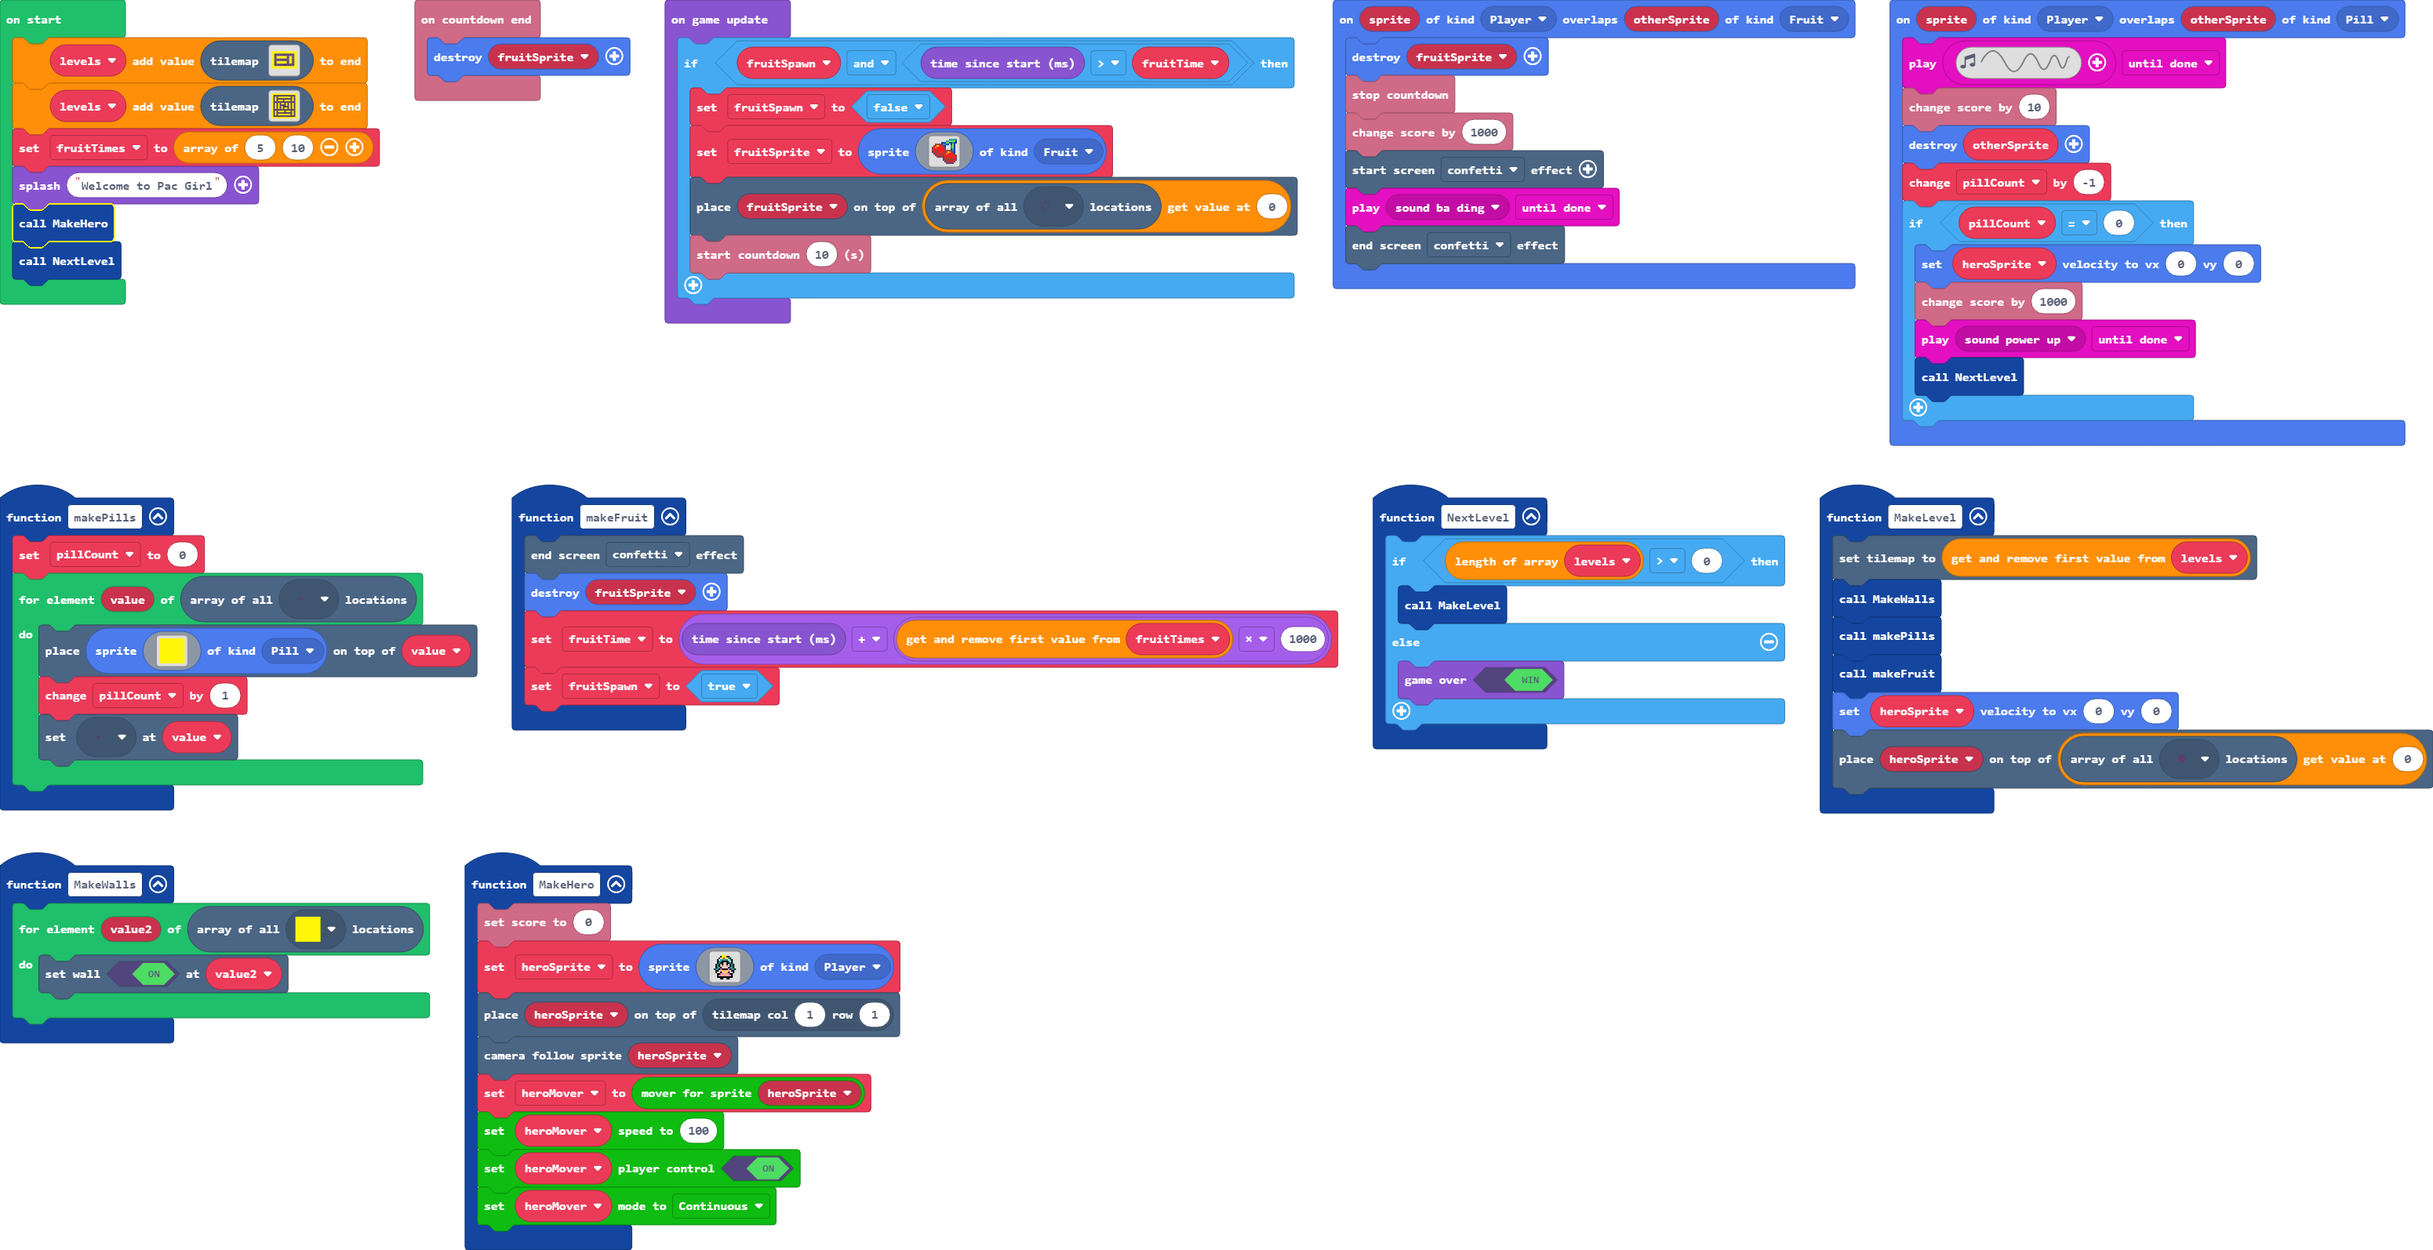
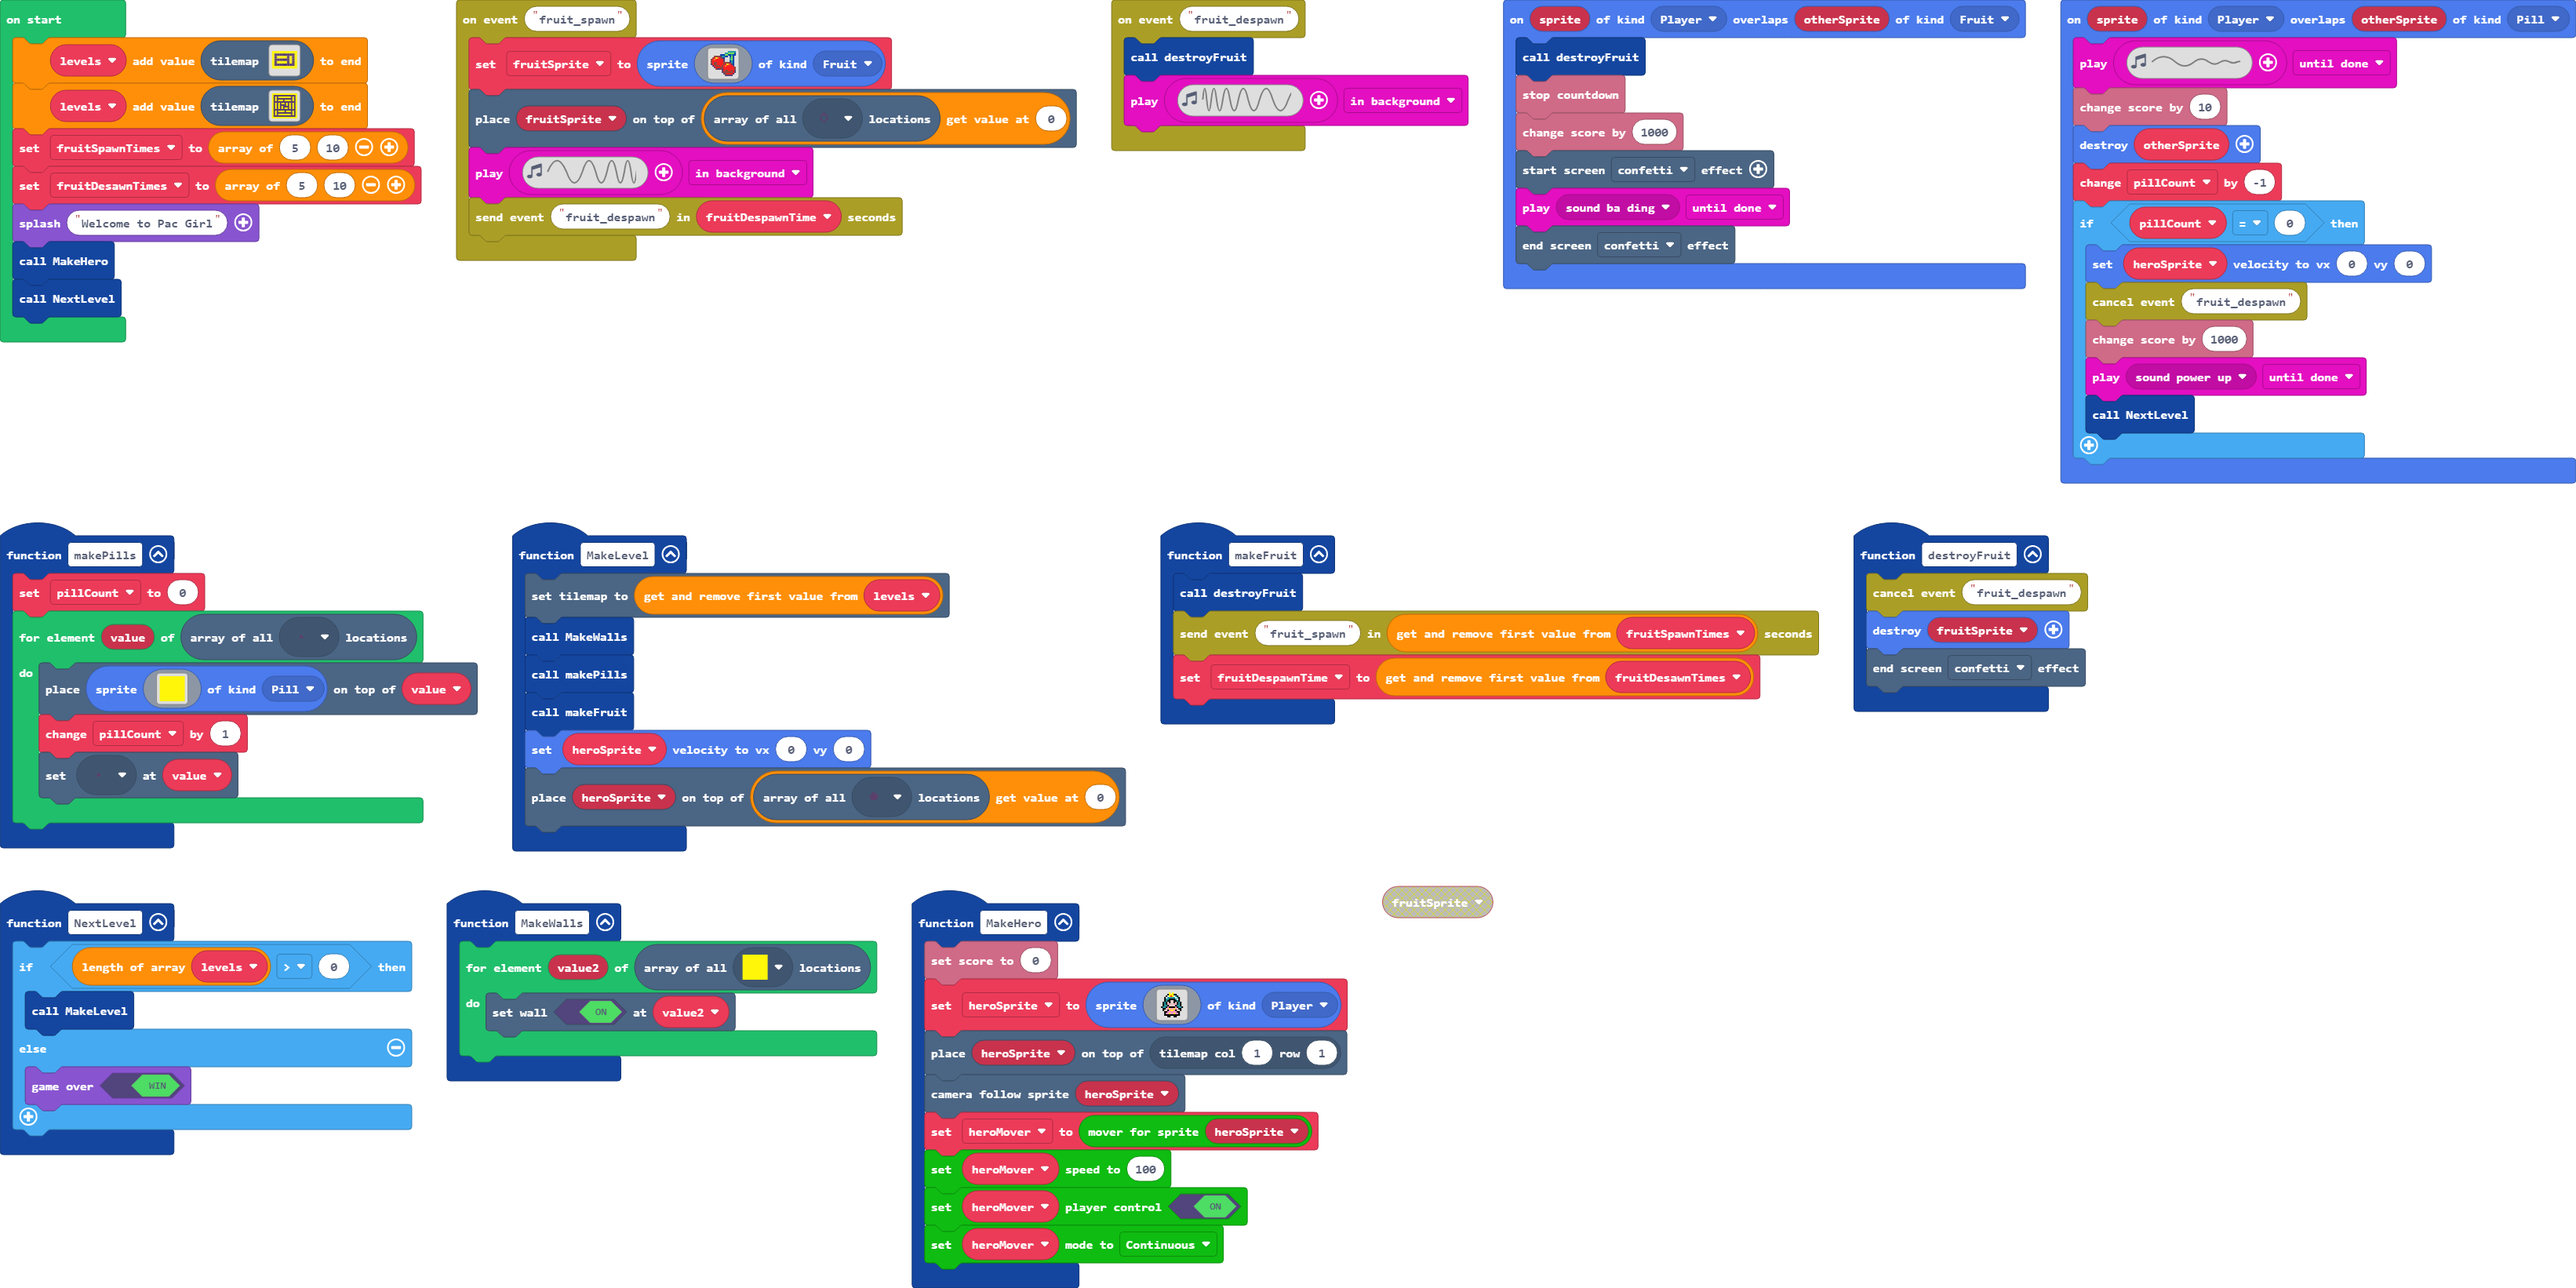
New event system for fruit spawning

diff --git a/main.ts b/main.ts
@@ -11,22 +11,27 @@ function makePills () {
     }
 }
 sprites.onOverlap(SpriteKind.Player, SpriteKind.Fruit, function (sprite, otherSprite) {
-    sprites.destroy(fruitSprite)
+    destroyFruit()
     info.stopCountdown()
     info.changeScoreBy(1000)
     effects.confetti.startScreenEffect()
     music.play(music.melodyPlayable(music.baDing), music.PlaybackMode.UntilDone)
     effects.confetti.endScreenEffect()
 })
-info.onCountdownEnd(function () {
+function destroyFruit () {
+    events.cancelEvent("fruit_despawn")
     sprites.destroy(fruitSprite)
-})
-function makeFruit () {
     effects.confetti.endScreenEffect()
-    sprites.destroy(fruitSprite)
-    fruitTime = game.runtime() + fruitTimes.shift() * 1000
-    fruitSpawn = true
 }
+function makeFruit () {
+    destroyFruit()
+    events.sendEvent("fruit_spawn", fruitSpawnTimes.shift())
+    fruitDespawnTime = fruitDesawnTimes.shift()
+}
+events.onEvent("fruit_despawn", function () {
+    destroyFruit()
+    music.play(music.createSoundEffect(WaveShape.Sine, 5000, 1052, 255, 255, 250, SoundExpressionEffect.None, InterpolationCurve.Linear), music.PlaybackMode.InBackground)
+})
 function NextLevel () {
     if (levels.length > 0) {
         MakeLevel()
@@ -48,12 +53,13 @@ function MakeWalls () {
     }
 }
 sprites.onOverlap(SpriteKind.Player, SpriteKind.Pill, function (sprite, otherSprite) {
-    music.play(music.createSoundEffect(WaveShape.Sine, 1, 5000, 255, 110, 50, SoundExpressionEffect.None, InterpolationCurve.Linear), music.PlaybackMode.UntilDone)
+    music.play(music.createSoundEffect(WaveShape.Sine, 1, 5000, 120, 0, 50, SoundExpressionEffect.None, InterpolationCurve.Linear), music.PlaybackMode.UntilDone)
     info.changeScoreBy(10)
     sprites.destroy(otherSprite)
     pillCount += -1
     if (pillCount == 0) {
         heroSprite.setVelocity(0, 0)
+        events.cancelEvent("fruit_despawn")
         info.changeScoreBy(1000)
         music.play(music.melodyPlayable(music.powerUp), music.PlaybackMode.UntilDone)
         NextLevel()
@@ -86,42 +92,41 @@ function MakeHero () {
     heroMover.setPlayerControl(true)
     heroMover.setMode(gridmove.Mode.Continuous)
 }
+events.onEvent("fruit_spawn", function () {
+    fruitSprite = sprites.create(img`
+        . . . . . . . . . . . 6 6 6 6 6 
+        . . . . . . . . . 6 6 7 7 7 7 8 
+        . . . . . . 8 8 8 7 7 8 8 6 8 8 
+        . . e e e e c 6 6 8 8 . 8 7 8 . 
+        . e 2 5 4 2 e c 8 . . . 6 7 8 . 
+        e 2 4 2 2 2 2 2 c . . . 6 7 8 . 
+        e 2 2 2 2 2 2 2 c . . . 8 6 8 . 
+        e 2 e e 2 2 2 2 e e e e c 6 8 . 
+        c 2 e e 2 2 2 2 e 2 5 4 2 c 8 . 
+        . c 2 e e e 2 e 2 4 2 2 2 2 c . 
+        . . c 2 2 2 e e 2 2 2 2 2 2 2 e 
+        . . . e c c e c 2 2 2 2 2 2 2 e 
+        . . . . . . . c 2 e e 2 2 e 2 c 
+        . . . . . . . c e e e e e e 2 c 
+        . . . . . . . . c e 2 2 2 2 c . 
+        . . . . . . . . . c c c c c . . 
+        `, SpriteKind.Fruit)
+    tiles.placeOnTile(fruitSprite, tiles.getTilesByType(assets.tile`floorFruit`)[0])
+    music.play(music.createSoundEffect(WaveShape.Sine, 1188, 5000, 255, 255, 250, SoundExpressionEffect.None, InterpolationCurve.Linear), music.PlaybackMode.InBackground)
+    events.sendEvent("fruit_despawn", fruitDespawnTime)
+})
 let heroMover: gridmove.Mover = null
 let heroSprite: Sprite = null
-let fruitSpawn = false
-let fruitTime = 0
+let fruitDespawnTime = 0
 let fruitSprite: Sprite = null
 let pillCount = 0
-let fruitTimes: number[] = []
+let fruitDesawnTimes: number[] = []
+let fruitSpawnTimes: number[] = []
 let levels: tiles.TileMapData[] = []
 levels.push(tilemap`level0`)
 levels.push(tilemap`level6`)
-fruitTimes = [5, 10]
+fruitSpawnTimes = [5, 10]
+fruitDesawnTimes = [5, 10]
 game.splash("Welcome to Pac Girl")
 MakeHero()
 NextLevel()
-game.onUpdate(function () {
-    if (fruitSpawn && game.runtime() > fruitTime) {
-        fruitSpawn = false
-        fruitSprite = sprites.create(img`
-            . . . . . . . . . . . 6 6 6 6 6 
-            . . . . . . . . . 6 6 7 7 7 7 8 
-            . . . . . . 8 8 8 7 7 8 8 6 8 8 
-            . . e e e e c 6 6 8 8 . 8 7 8 . 
-            . e 2 5 4 2 e c 8 . . . 6 7 8 . 
-            e 2 4 2 2 2 2 2 c . . . 6 7 8 . 
-            e 2 2 2 2 2 2 2 c . . . 8 6 8 . 
-            e 2 e e 2 2 2 2 e e e e c 6 8 . 
-            c 2 e e 2 2 2 2 e 2 5 4 2 c 8 . 
-            . c 2 e e e 2 e 2 4 2 2 2 2 c . 
-            . . c 2 2 2 e e 2 2 2 2 2 2 2 e 
-            . . . e c c e c 2 2 2 2 2 2 2 e 
-            . . . . . . . c 2 e e 2 2 e 2 c 
-            . . . . . . . c e e e e e e 2 c 
-            . . . . . . . . c e 2 2 2 2 c . 
-            . . . . . . . . . c c c c c . . 
-            `, SpriteKind.Fruit)
-        tiles.placeOnTile(fruitSprite, tiles.getTilesByType(assets.tile`floorFruit`)[0])
-        info.startCountdown(10)
-    }
-})

diff --git a/events.ts b/events.ts
@@ -1,0 +1,143 @@
+//% weight=100 color=#ab9e26 icon="\uf0a1" block="Events"
+//% groups='["Senders", "Handlers"]'
+namespace events {
+    class Event {
+        _name: string
+        _time: number
+        _fired: boolean
+
+        constructor(name: string) {
+            this._name = name
+            this._time = 0
+            this._fired = false
+        }
+
+        public update(time: number): boolean {
+            if (!this._fired)
+            {
+                if (time >= this._time) {
+                    this._fired = true
+                    return true
+                }
+            }
+            return false
+        }
+
+        public getName(): string { return this._name }
+
+        public setTime(time: number) {
+            this._time = time
+            this._fired = false
+        }
+
+        public cancel() {
+            this._fired = true
+        }
+    }
+
+    class Handler {
+        _name: string
+        _callback: () => void
+
+        constructor(name: string, callback: () => void) {
+            this._name = name
+            this._callback = callback
+        }
+
+        public call() {
+            if (this._callback) {
+                this._callback()
+            }
+        }
+
+        public getName(): string { return this._name }
+    }
+
+    class EventManager {
+        _events: Event[]
+        _handlers: Handler[]
+        _time: number
+
+        constructor() {
+            this._events = []
+            this._handlers = []
+            this._time = game.runtime()
+        }
+
+        public init() {
+            game.onUpdate(function () {
+                getEventManager().update()
+            })
+        }
+
+        private update() {
+            this._time = game.runtime()
+
+            // Update all events
+            this._events.forEach(e => {
+                if (e.update(this._time)) {
+                    // Event fired, call all handlers
+                    this._handlers.forEach(h => {
+                        if (e.getName() == h.getName()) {
+                            h.call()
+                        }
+                    })
+                }
+            })
+        }
+
+        public createHandler(name: string, callback: () => void) {
+            const h = new Handler(name, callback)
+            this._handlers.push(h)
+        }
+
+        public createEvent(name: string): Event {
+            // Check for existing event with this name
+            const found = this._events.find(e => e._name == name)
+            if (found) {
+                return found
+            }
+
+            // Create new event
+            const e = new Event(name)
+            this._events.push(e)
+            return e
+        }
+    }
+
+    function getEventManager(): EventManager {
+        let em = game.currentScene().data.eventManager
+        if (!em) {
+            em = new EventManager()
+            em.init()
+            game.currentScene().data.eventManager = em
+        }
+        return em
+    }
+
+    //% blockId=events_on_event
+    //% group="Handlers"
+    //% block="on event $name"
+    export function onEvent(name: string, callback: () => void) {
+        const em = getEventManager()
+        em.createHandler(name, callback)
+    }
+
+    //% blockId=events_send_event
+    //% group="Senders"
+    //% block="send event $name in $delay seconds"
+    export function sendEvent(name: string, delay: number = 0) {
+        const em = getEventManager()
+        const e = em.createEvent(name)
+        e.setTime(em._time + 1000 * delay)
+    }
+
+    //% blockId=events_cancel_event
+    //% group="Senders"
+    //% block="cancel event $name"
+    export function cancelEvent(name: string) {
+        const em = getEventManager()
+        const e = em.createEvent(name)
+        e.cancel()
+    }
+}

diff --git a/tilemap.g.ts b/tilemap.g.ts
@@ -42,6 +42,44 @@ namespace myTiles {
 . . . . . . . . . . . . . . . . 
 . . . . . . . . . . . . . . . . 
 `, [myTiles.transparency16,myTiles.tile1,myTiles.tile2,myTiles.tile3,myTiles.tile4], TileScale.Sixteen);
+            case "level2":
+            case "level2":return tiles.createTilemap(hex`1000100000000000000000000000000000000000000000000000000000000000000000000000000000000000000000000000000000000000000000000000000000000000000000000000000000000000000000000000000000000000000000000000000000000000000000000000000000000000000000000000000000000000000000000000000000000000000000000000000000000000000000000000000000000000000000000000000000000000000000000000000000000000000000000000000000000000000000000000000000000000000000000000000000000000000000000000000000000000000000000000000000000000000000000000000000000000`, img`
+. . . . . . . . . . . . . . . . 
+. . . . . . . . . . . . . . . . 
+. . . . . . . . . . . . . . . . 
+. . . . . . . . . . . . . . . . 
+. . . . . . . . . . . . . . . . 
+. . . . . . . . . . . . . . . . 
+. . . . . . . . . . . . . . . . 
+. . . . . . . . . . . . . . . . 
+. . . . . . . . . . . . . . . . 
+. . . . . . . . . . . . . . . . 
+. . . . . . . . . . . . . . . . 
+. . . . . . . . . . . . . . . . 
+. . . . . . . . . . . . . . . . 
+. . . . . . . . . . . . . . . . 
+. . . . . . . . . . . . . . . . 
+. . . . . . . . . . . . . . . . 
+`, [myTiles.transparency16], TileScale.Sixteen);
+            case "level3":
+            case "level3":return tiles.createTilemap(hex`1000100000000000000000000000000000000000000000000000000000000000000000000000000000000000000000000000000000000000000000000000000000000000000000000000000000000000000000000000000000000000000000000000000000000000000000000000000000000000000000000000000000000000000000000000000000000000000000000000000000000000000000000000000000000000000000000000000000000000000000000000000000000000000000000000000000000000000000000000000000000000000000000000000000000000000000000000000000000000000000000000000000000000000000000000000000000000`, img`
+. . . . . . . . . . . . . . . . 
+. . . . . . . . . . . . . . . . 
+. . . . . . . . . . . . . . . . 
+. . . . . . . . . . . . . . . . 
+. . . . . . . . . . . . . . . . 
+. . . . . . . . . . . . . . . . 
+. . . . . . . . . . . . . . . . 
+. . . . . . . . . . . . . . . . 
+. . . . . . . . . . . . . . . . 
+. . . . . . . . . . . . . . . . 
+. . . . . . . . . . . . . . . . 
+. . . . . . . . . . . . . . . . 
+. . . . . . . . . . . . . . . . 
+. . . . . . . . . . . . . . . . 
+. . . . . . . . . . . . . . . . 
+. . . . . . . . . . . . . . . . 
+`, [myTiles.transparency16], TileScale.Sixteen);
         }
         return null;
     })
